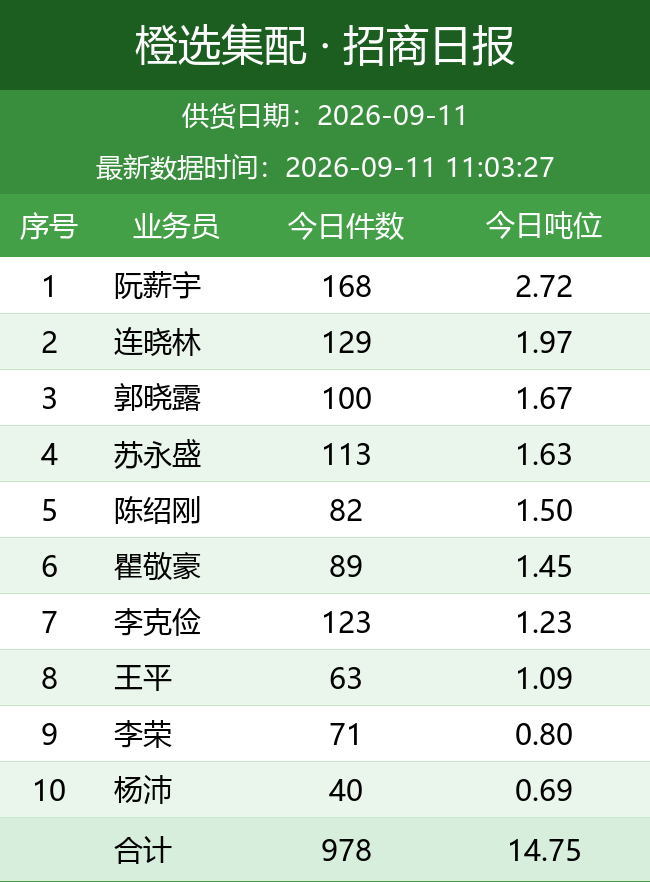
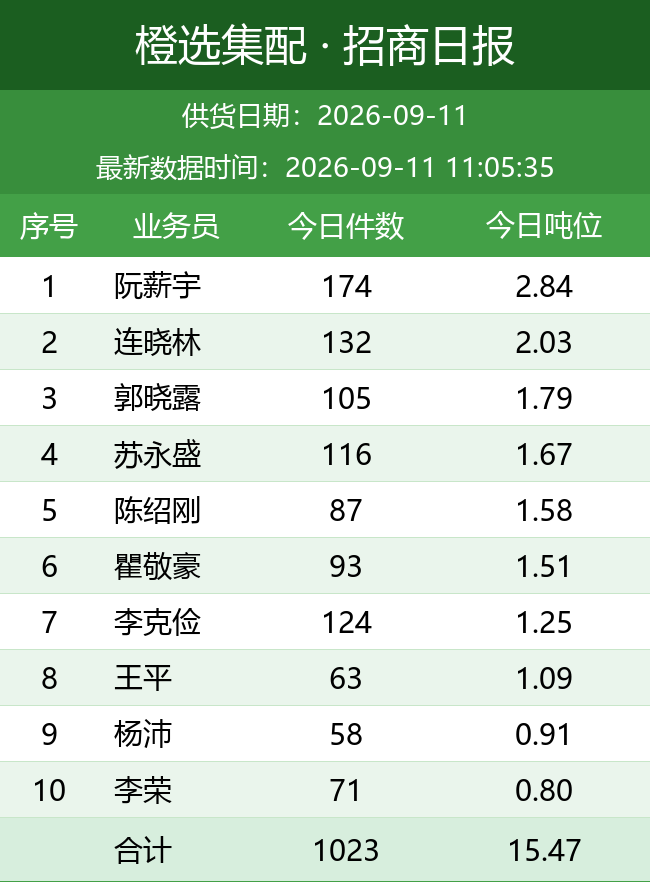
自动更新日报图片

diff --git a/index.html b/index.html
@@ -11,7 +11,7 @@ img { max-width: 100%; border: 1px solid #e5e5e5; margin-bottom: 24px; display: 
 </style>
 </head>
 <body>
-<h1>橙选集配日报图片（20260911_110333）</h1>
+<h1>橙选集配日报图片（20260911_110542）</h1>
 <img src="bd_latest.png" alt="BD 日报">
 <img src="wh_latest.png" alt="城市仓日报">
 <img src="zs_latest.png" alt="招商日报">
